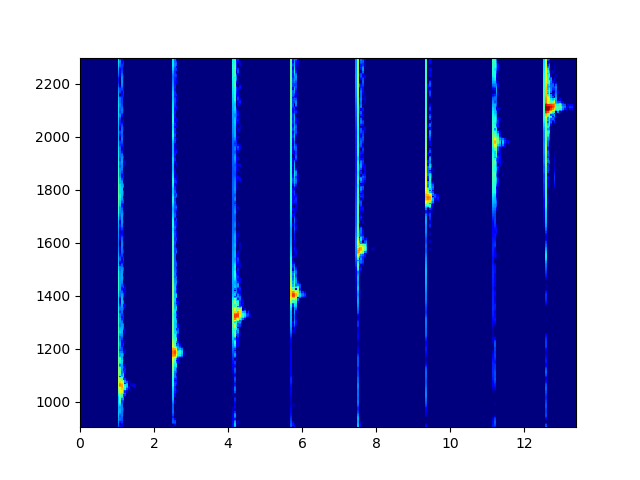
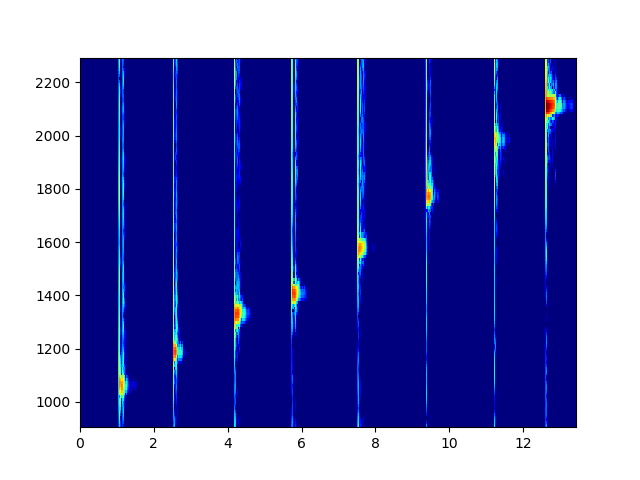
Updated GUI to work without being connected, change flag on top of file if connected

diff --git a/signalprocessing/custompitchtracking.py b/signalprocessing/custompitchtracking.py
@@ -4,7 +4,7 @@ import numpy as np
 from scipy.io import wavfile
 import matplotlib.pyplot as plt
 
-"""use pitchtracking.py to run"""
+"""use PitchtrackingDriver.py to run"""
 
 pitches = dict([
     (987.8, 'b5'),
@@ -109,8 +109,9 @@ def convert_idx_to_time(time_list, idx):
 
 
 def detect_pitch(magnitudes, freq_list):
-    n = 1
+    n = 10
     indices = np.argpartition(magnitudes, -n)[-n:]
+    logging.debug(f'indices {indices}')
     return freq_list[min(indices)]
 
 
@@ -124,8 +125,7 @@ def find_key(pitch):
                 return pitches_ranges[i][1]
 
 
-def detect_hits(result, loudness_factor):
-    global args
+def detect_hits(result, loudness_factor, args):
     averages = []
     max_magn = -1
     for i, bins in enumerate(result):
@@ -141,7 +141,8 @@ def detect_hits(result, loudness_factor):
     if args.plot:
         plt.plot(averages, '.-')
         plt.show()
-    return hits
+    # print(hits)
+    return hits, averages
 
 
 def find_cutoffs(freq_list):
@@ -159,11 +160,11 @@ def find_cutoffs(freq_list):
 
 
 def process_results(result, freq_list):
-    result = 20 * np.log10(result)  # scale to db
-    result = np.clip(result, 0, 120)  # clip values
+    result_scale = 20 * np.log10(result)  # scale to db
+    result_clip = np.clip(result_scale, 0, 120)  # clip values
     low_index_cutoff, upper_index_cutoff = find_cutoffs(freq_list)
     results_cutoff = []
-    for bin_list in result:
+    for bin_list in result_clip:
         results_cutoff.append(bin_list[
                               low_index_cutoff:upper_index_cutoff])  # remove some of the frequencies we dont need  freq_val < 900 or freq_val > 2300
     return results_cutoff
@@ -185,13 +186,39 @@ def pitch_track(args_dict):
         logger.addHandler(logging.StreamHandler())
     logger.info("Starting script")
 
+    key_and_times, results_transposed, time_list, freq_list, low_index_cutoff, upper_index_cutoff, fft_size, overlap_fac, loudness_factor, fs, data, hop_size, averages = pitch_track_raw(args, logging=True)
+    if args.plot:
+        img = plt.imshow(results_transposed, origin='lower', cmap='jet', interpolation='nearest', aspect='auto',
+                         extent=[time_list[0], time_list[-1], freq_list[low_index_cutoff],
+                                 freq_list[upper_index_cutoff]])
+        plt.show()
+
+    # !!! FINAL RESULT !!!
+
+    logger.info(key_and_times)
+    logging.info(f'final keys and time {key_and_times}')
+    if args.guiplot:
+        return key_and_times, plt.imshow(results_transposed, origin='lower', cmap='jet', interpolation='nearest',
+                                         aspect='auto',
+                                         extent=[time_list[0], time_list[-1], freq_list[low_index_cutoff],
+                                                 freq_list[upper_index_cutoff]])
+    return key_and_times
+
+
+def pitch_track_raw(args, logging=False):
     # https://kevinsprojects.wordpress.com/2014/12/13/short-time-fourier-transform-using-python-and-numpy/
     sound_file_path = os.path.join(os.path.abspath(os.path.dirname(__file__)), f'data/{args.name}')
-    logger.debug(f' path: {sound_file_path}')
+    if logging:
+        logger.debug(f' path: {sound_file_path}')
     fs, data = wavfile.read(sound_file_path)
+
     fft_size = 2 ** 12
+    fft_size = 2 ** 11
+    logging.debug(fs)
+    logging.debug(fft_size)
+    logging.debug(f'fs/fft {fs/fft_size}')
     overlap_fac = 0.5
-    loudness_factor = 0.4  # determines senitivity off hit detection
+    loudness_factor = 0.5  # determines senitivity off hit detection
 
     hop_size = np.int32(np.floor(fft_size * (1 - overlap_fac)))
     pad_end_size = fft_size  # the last segment can overlap the end of the data array by no more than one window size
@@ -204,29 +231,16 @@ def pitch_track(args_dict):
     freq_list_cutoff = freq_list[low_index_cutoff:upper_index_cutoff]
 
     result = stft(data=data, fft_size=fft_size, pad_end_size=fft_size, total_segments=total_segments, hop_size=hop_size)
-
     results_cutoff = process_results(result, freq_list)
 
-    hits = detect_hits(results_cutoff, loudness_factor)
+    hits_cutoff, _ = detect_hits(results_cutoff, loudness_factor, args)
+    _, averages = detect_hits(result, loudness_factor, args)
     key_and_times = []
-    for hit_idx in hits:
+    for hit_idx in hits_cutoff:
         pitch = detect_pitch(results_cutoff[hit_idx], freq_list_cutoff)
-        logger.debug(f'pitch: {pitch}, time: {convert_idx_to_time(time_list, hit_idx)}')
+        if logging:
+            logger.debug(f'pitch: {pitch}, time: {convert_idx_to_time(time_list, hit_idx)}')
         key_and_times.append((find_key(pitch), convert_idx_to_time(time_list, hit_idx)))
 
     results_transposed = np.transpose(results_cutoff)
-    if args.plot:
-        img = plt.imshow(results_transposed, origin='lower', cmap='jet', interpolation='nearest', aspect='auto',
-                         extent=[time_list[0], time_list[-1], freq_list[low_index_cutoff],
-                                 freq_list[upper_index_cutoff]])
-        plt.show()
-
-    # !!! FINAL RESULT !!!
-
-    logger.info(key_and_times)
-    print(f'final keys and time {key_and_times}')
-    if args.guiplot:
-        return key_and_times, plt.imshow(results_transposed, origin='lower', cmap='jet', interpolation='nearest', aspect='auto',
-                         extent=[time_list[0], time_list[-1], freq_list[low_index_cutoff],
-                                 freq_list[upper_index_cutoff]])
-    return key_and_times
+    return key_and_times, results_transposed, time_list, freq_list, low_index_cutoff, upper_index_cutoff, fft_size, overlap_fac, loudness_factor, fs, data, hop_size, averages

diff --git a/GUI.py b/GUI.py
@@ -1,3 +1,4 @@
+connectedtosetup = False
 import multiprocessing
 import threading
 
@@ -6,7 +7,8 @@ import ast
 from functools import partial
 from tkinter.filedialog import askopenfilename
 from types import SimpleNamespace
-from Control import Control
+if connectedtosetup:
+    from Control import Control, Calibrator
 
 import pyaudio
 import wave
@@ -209,9 +211,15 @@ class XylobotGUI:
         self.log_text_list.insert(0, text_short)
         self.log_text.set('\n'.join(self.log_text_list))
 
-    def play_button(self, key):
+    def play_button(self, key, event=None):
         self.update_log(f'playing: {key}')
-        Control.hitkey(key)
+        if connectedtosetup:
+            Control.hitkey(key)
+
+    # TODO call right method, calibrator needs to be restructured
+    def calibrate(self):
+        if connectedtosetup:
+            Calibrator.calibrate()
 
     def record_clip(self):
         self.record_clip_button_clicked = True
@@ -284,7 +292,8 @@ class XylobotGUI:
             note, time = seqpart
             note_list.append(Note(key=note, delay=(time - prevtime)))
             prevtime = time
-        Control.play(note_list)
+        if connectedtosetup:
+            Control.play(note_list)
 
     def closeGUI(self):
         self.window.destroy()
@@ -338,15 +347,19 @@ class XylobotGUI:
                    command=partial(self.play_button, key)).grid(row=5, column=(2 + i),
                                                                 sticky=NSEW, ipadx=(
                         (self.width / self.gridcolumns) / len(key_list)))
+            self.window.bind(f'q', partial(self.play_button, key))
 
         self.sequence_entry_text = StringVar()
         self.sequence_entry = Entry(window, textvariable=self.sequence_entry_text).grid(row=4, column=2, columnspan=8,
                                                                                         sticky=NSEW)
-        self.record_button = Button(window, text="Record Clip", command=self.record_clip).grid(row=6, column=2,
+        self.calibrate_button = Button(window, text="Calibrate Setup", command=self.calibrate).grid(row=6, column=2,
                                                                                                columnspan=4,
                                                                                                sticky=NSEW)
-        self.stop_button = Button(window, text="Stop Recording", command=self.stop_recording).grid(row=7, column=2,
-                                                                                                   columnspan=4,
+        self.record_button = Button(window, text="Record Clip", command=self.record_clip).grid(row=7, column=2,
+                                                                                               columnspan=2,
+                                                                                               sticky=NSEW)
+        self.stop_button = Button(window, text="Stop Recording", command=self.stop_recording).grid(row=7, column=4,
+                                                                                                   columnspan=2,
                                                                                                    sticky=NSEW)
         self.analyse_button = Button(window, text="Analyse Clip", command=self.analyse_clip).grid(row=6, column=6,
                                                                                                   columnspan=4,
